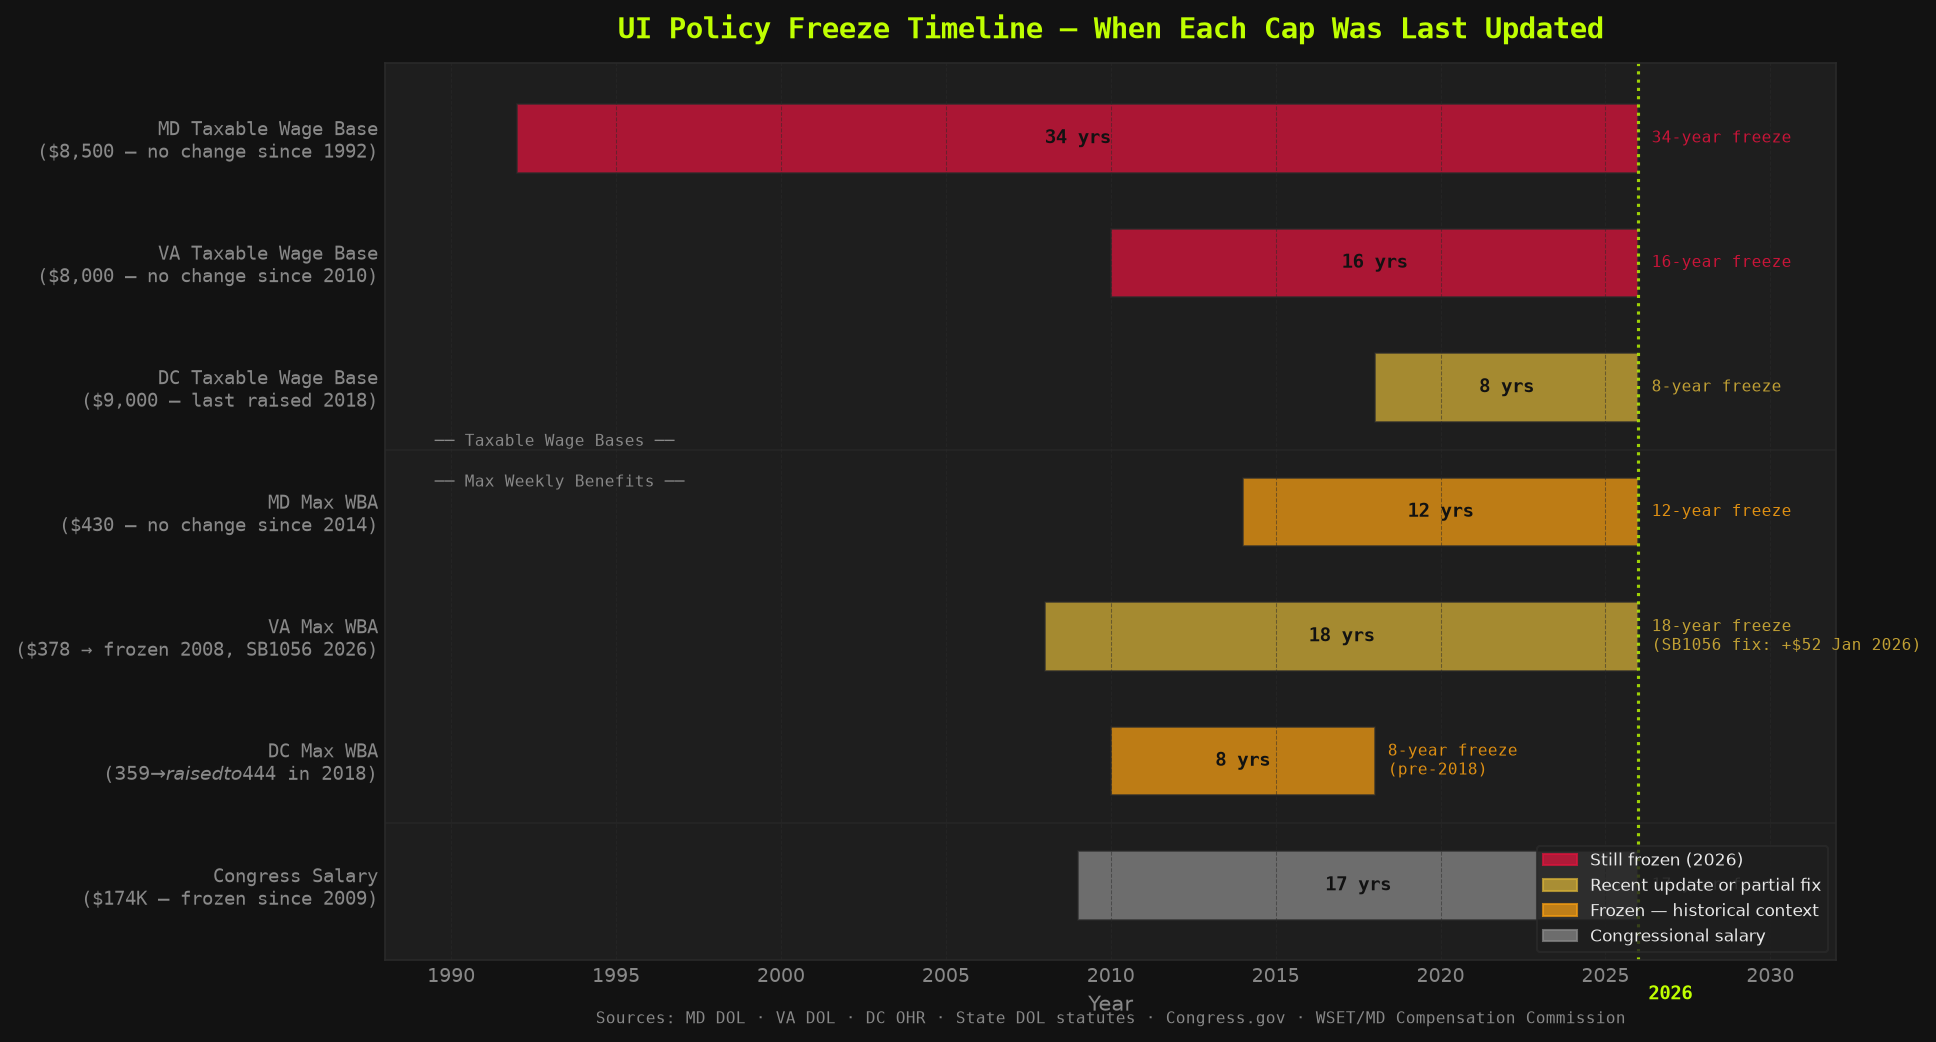
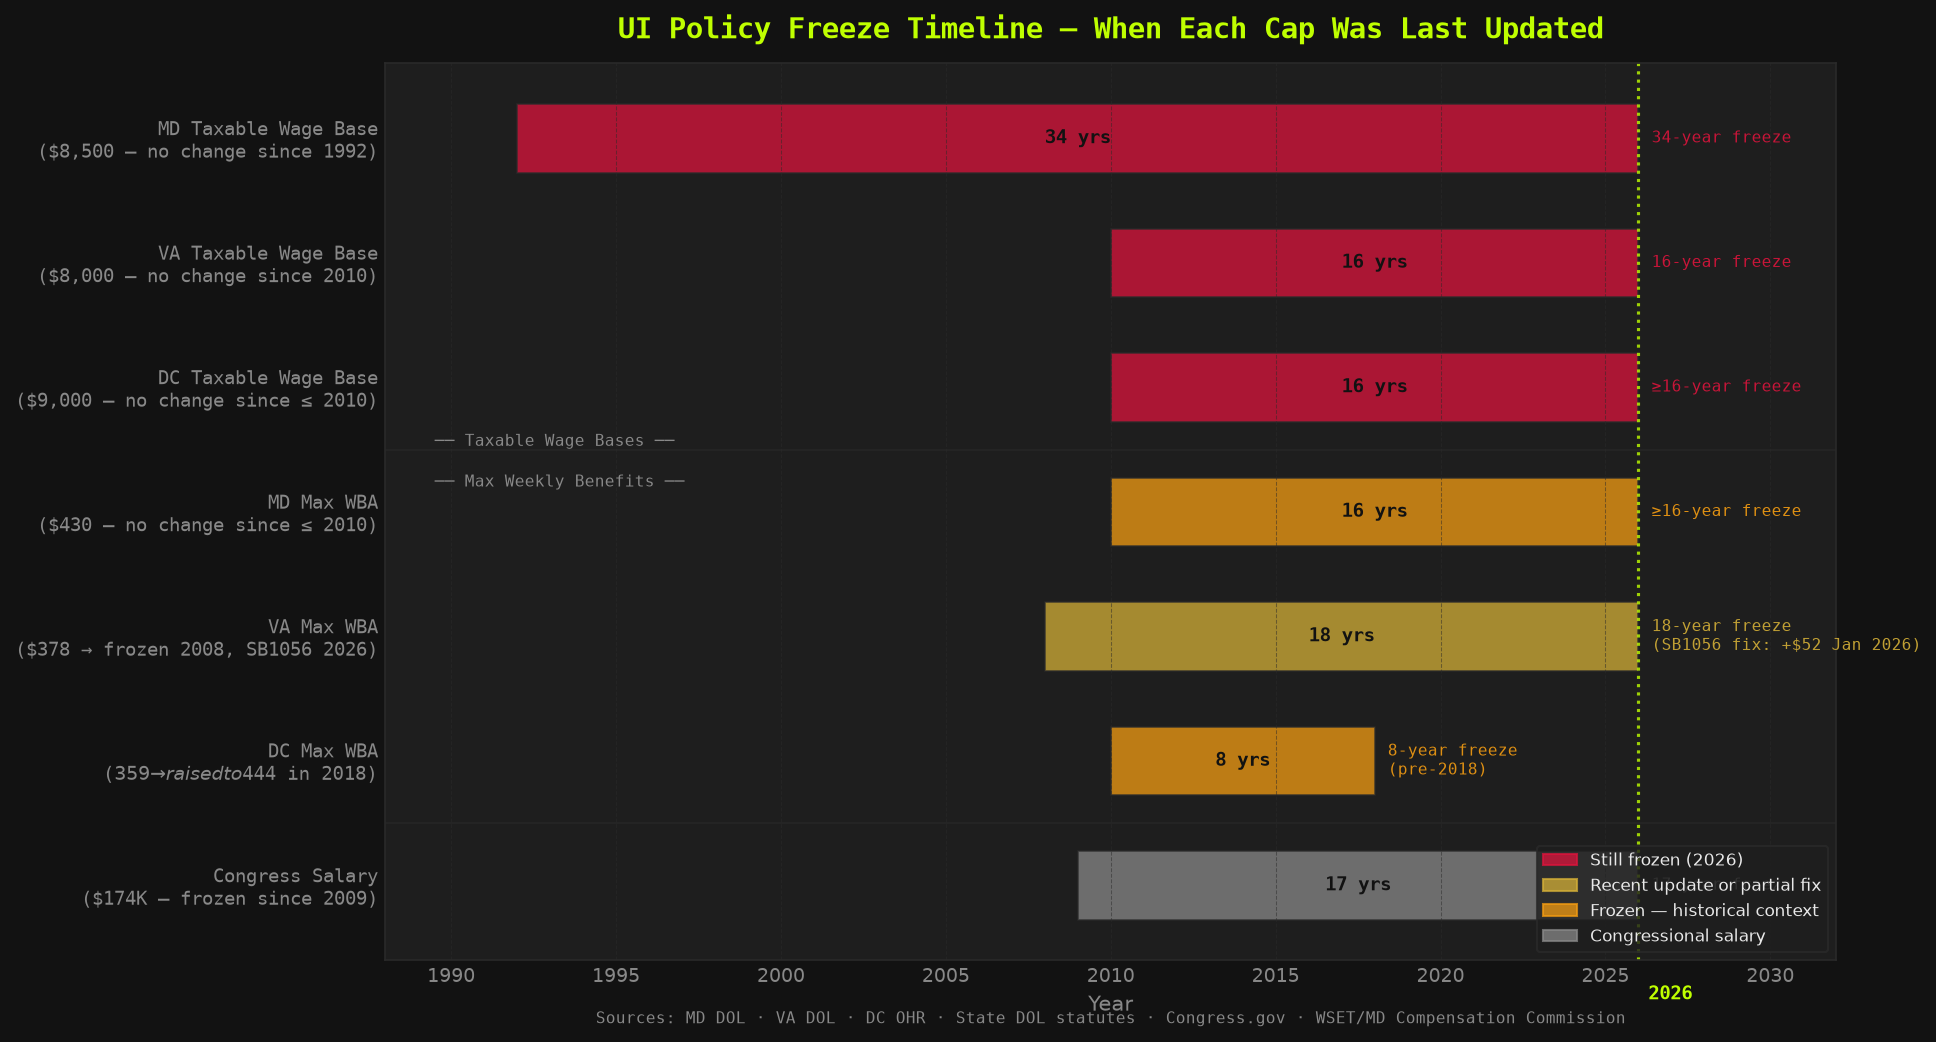
Fix two incorrect freeze dates in policy timeline (Gantt chart)
- DC taxable wage base: start_year 2018 → 2010; CSV confirms $9,000 in 2010,
  2018, AND 2026 — the wage base was not raised in 2018. Remove false EVENTS
  marker that asserted a 2018 DC wage-base change.
- MD max WBA: start_year 2014 → 2010; CSV confirms $430 in 2010, 2018, AND 2026
  — freeze predates 2014. Duration corrected 12yr → ≥16yr.
- Regenerated figures/17_policy_freeze_timeline.png to reflect corrections.

Both corrections traced to dmv_macro_baselines.csv anchor-year evidence.

Claude-Session: https://claude.ai/code/session_01KchNZ1Y2fjA8otTZK9ay5U

diff --git a/generate_policy_timeline.py b/generate_policy_timeline.py
@@ -25,12 +25,22 @@ ORANGE  = "#F39C12"
 # "end" is when the freeze ended (or 2026 if still frozen)
 FREEZE_BARS = [
     # Taxable Wage Bases
+    # MD: CSV (dmv_macro_baselines.csv) shows $8,500 for 2010, 2018, 2026 — freeze predates 2010.
+    # 1992 is the asserted start; confirmed only that it extends to at least 2010.
     ("MD Taxable Wage Base\n($8,500 — no change since 1992)", 1992, 2026, CRIMSON,  "34-year freeze"),
+    # VA: CSV shows $8,000 for 2010, 2018, 2026 — consistent with 2010 freeze start.
     ("VA Taxable Wage Base\n($8,000 — no change since 2010)", 2010, 2026, CRIMSON,  "16-year freeze"),
-    ("DC Taxable Wage Base\n($9,000 — last raised 2018)",     2018, 2026, GOLD,     "8-year freeze"),
+    # DC: CSV shows $9,000 for ALL three anchor years (2010, 2018, 2026).
+    # The wage base was already $9,000 in 2010 — it was NOT raised in 2018.
+    # Bar corrected from start_year=2018 to ≤2010; using 2010 as the confirmed upper bound.
+    ("DC Taxable Wage Base\n($9,000 — no change since ≤ 2010)", 2010, 2026, CRIMSON, "≥16-year freeze"),
     # Max Weekly Benefits
-    ("MD Max WBA\n($430 — no change since 2014)",             2014, 2026, ORANGE,   "12-year freeze"),
+    # MD: CSV shows $430 for ALL three anchor years (2010, 2018, 2026).
+    # Freeze confirmed to predate 2010; bar corrected from 2014 to 2010.
+    ("MD Max WBA\n($430 — no change since ≤ 2010)",           2010, 2026, ORANGE,   "≥16-year freeze"),
+    # VA: CSV shows $378 for 2010 and 2018, $430 for 2026 (SB1056 fix). Consistent with 2008 start.
     ("VA Max WBA\n($378 → frozen 2008, SB1056 2026)",         2008, 2026, GOLD,     "18-year freeze\n(SB1056 fix: +$52 Jan 2026)"),
+    # DC: CSV shows $359 (2010) → $444 (2018) — WBA raised in 2018. Bar unchanged.
     ("DC Max WBA\n($359 → raised to $444 in 2018)",           2010, 2018, ORANGE,   "8-year freeze\n(pre-2018)"),
     # Congressional salary
     ("Congress Salary\n($174K — frozen since 2009)",          2009, 2026, MUTED,    "17-year freeze"),
@@ -39,8 +49,9 @@ FREEZE_BARS = [
 # Point events (markers, not bars)
 EVENTS = [
     (2026, 0,  "SB1056\n+$52", GREEN),   # VA benefit fix — row index 4 (VA Max WBA)
-    (2018, 2,  "DC raised\n$9K", BLUE),  # DC wage base raised — row 2
-    (2018, 5,  "DC raised\n$444", BLUE), # DC benefit raised — row 5
+    # Note: DC raised its WBA to $444 in 2018 (captured in row 5), NOT its taxable wage base.
+    # The wage base ($9,000) was already at this level in 2010 per dmv_macro_baselines.csv.
+    (2018, 5,  "DC raised\n$444", BLUE), # DC WBA raised to $444 — row 5
 ]
 
 fig, ax = plt.subplots(figsize=(13, 7))
